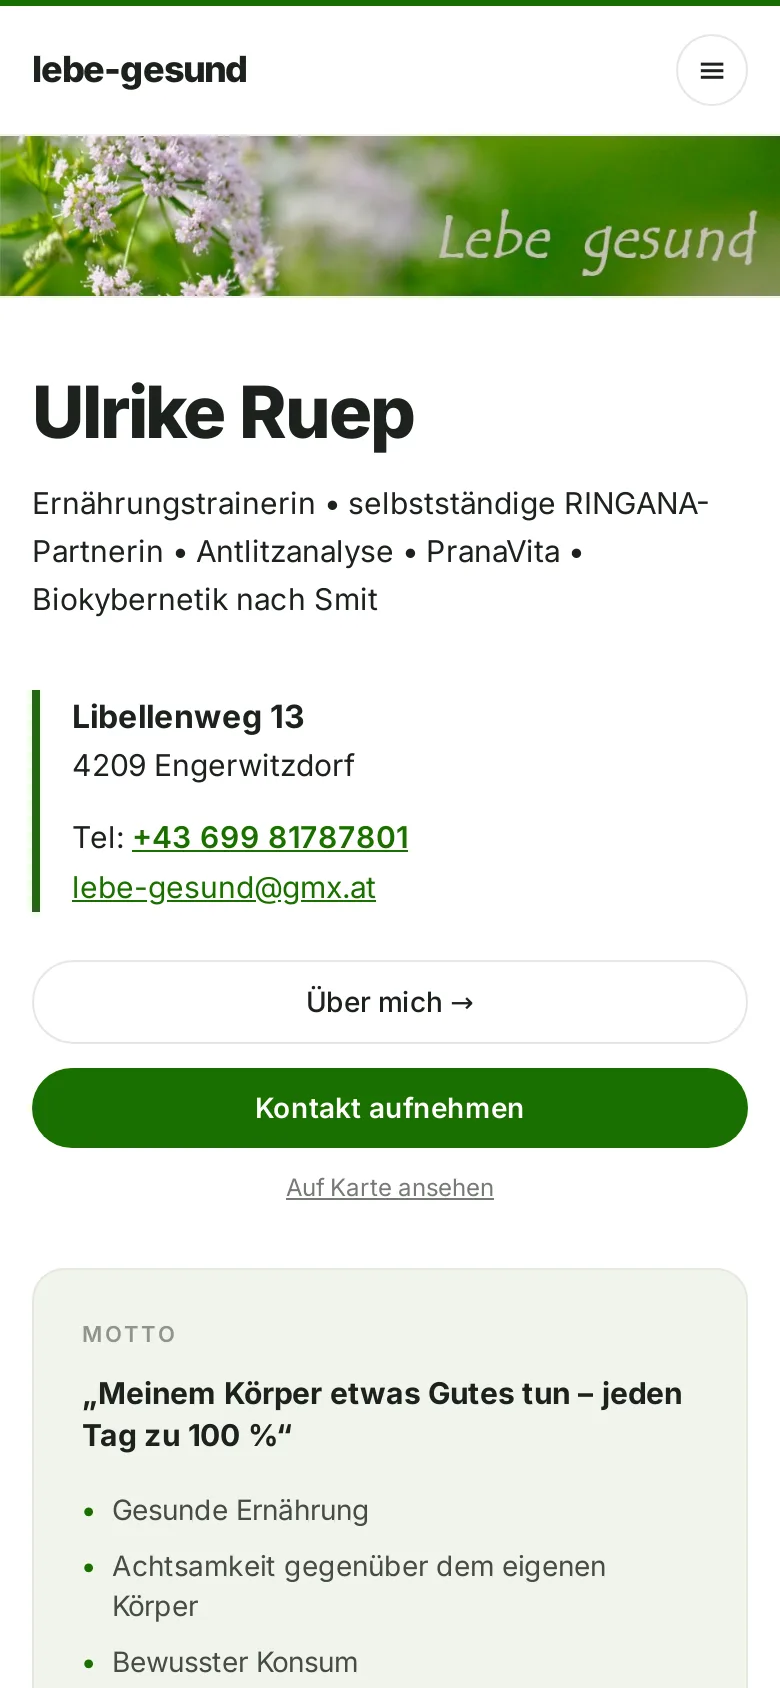
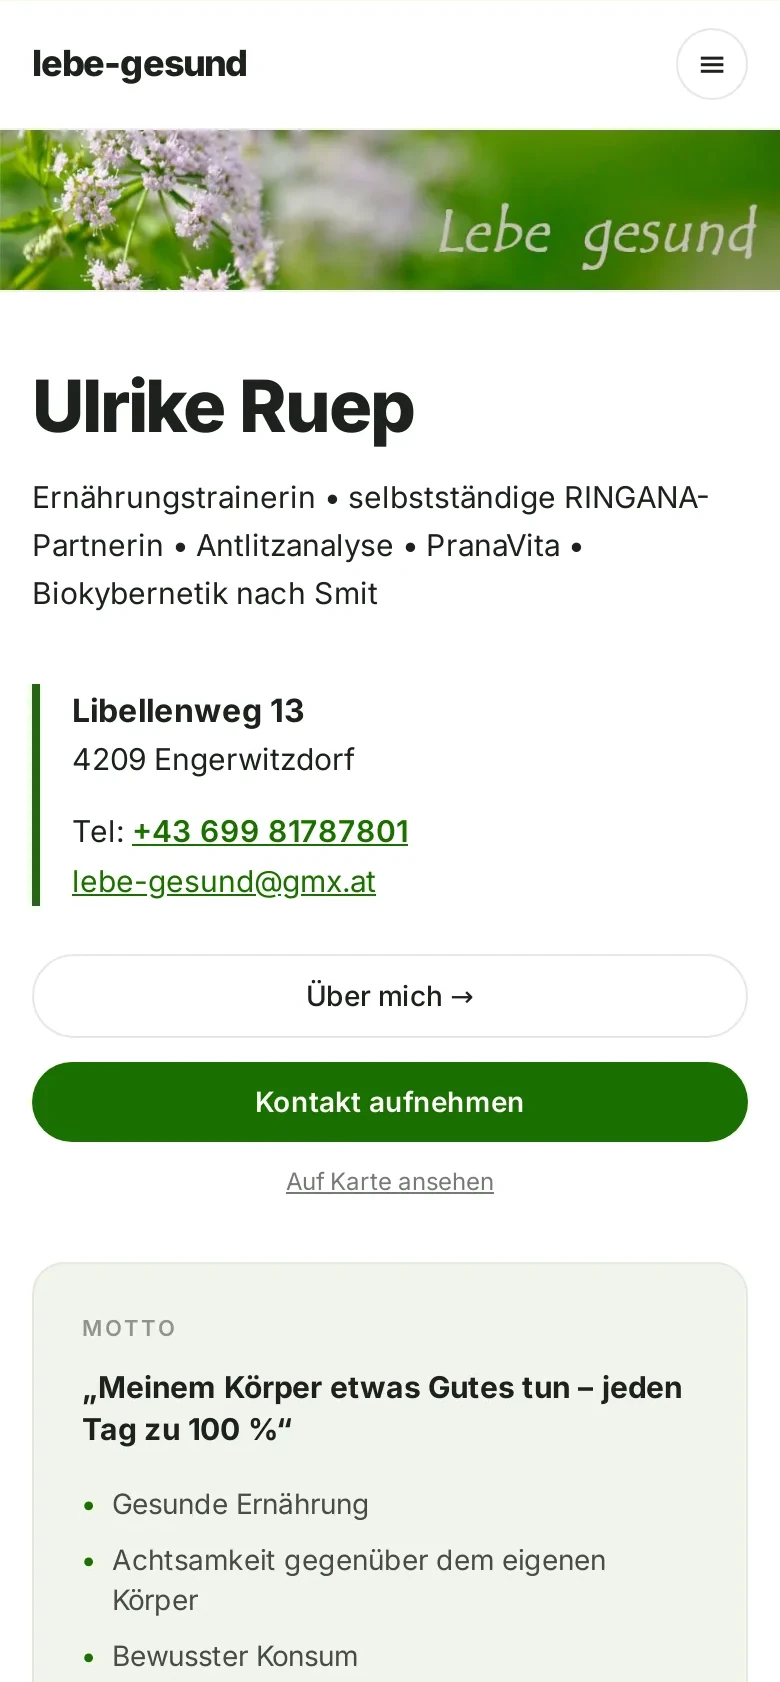
perf(frontend): hover timing, seamless marquee, cropped screenshots
- Scope fade-up transition so hover transitions keep their own timing
- Pure-CSS seamless marquee (two identical halves, no JS cloning, reduced-motion)
- Project card zoom 700ms to 500ms, green strip cropped from lebe-gesund shots

diff --git a/resources/css/app.css b/resources/css/app.css
@@ -375,7 +375,11 @@ html, body{
 }
 
 .marquee-content {
-    animation: scroll 160s linear infinite;
+    /* Constant-speed loop (~50px/s over one identical half): fast enough to
+       feel alive, slow enough to read. Seamless because the markup renders
+       exactly two identical halves and the keyframes move precisely -50%. */
+    animation: scroll 42s linear infinite;
+    will-change: transform;
 }
 
 .marquee-content:hover {
@@ -385,6 +389,12 @@ html, body{
 @keyframes scroll {
     0% { transform: translateX(0); }
     100% { transform: translateX(-50%); }
+}
+
+@media (prefers-reduced-motion: reduce) {
+    .marquee-content {
+        animation: none;
+    }
 }
 
 @keyframes popIn {
@@ -498,7 +508,11 @@ html, body{
 body.js-anim .fade-up.below-fold {
     opacity: 0;
     transform: translateY(25px) scale(.98);
-    transition: all .8s cubic-bezier(0.22, 1, 0.36, 1);
+    /* Scoped to opacity+transform ONLY (never `all`): cards that ALSO carry
+       hover transitions (hover:-translate-y-*, group-hover:scale-*, shadows
+       via Tailwind's `translate`/`scale` properties) would otherwise inherit
+       this 0.8s timing and every hover would feel delayed/laggy. */
+    transition: opacity .8s cubic-bezier(0.22, 1, 0.36, 1), transform .8s cubic-bezier(0.22, 1, 0.36, 1);
 }
 
 body.js-anim .fade-up.below-fold.show {
